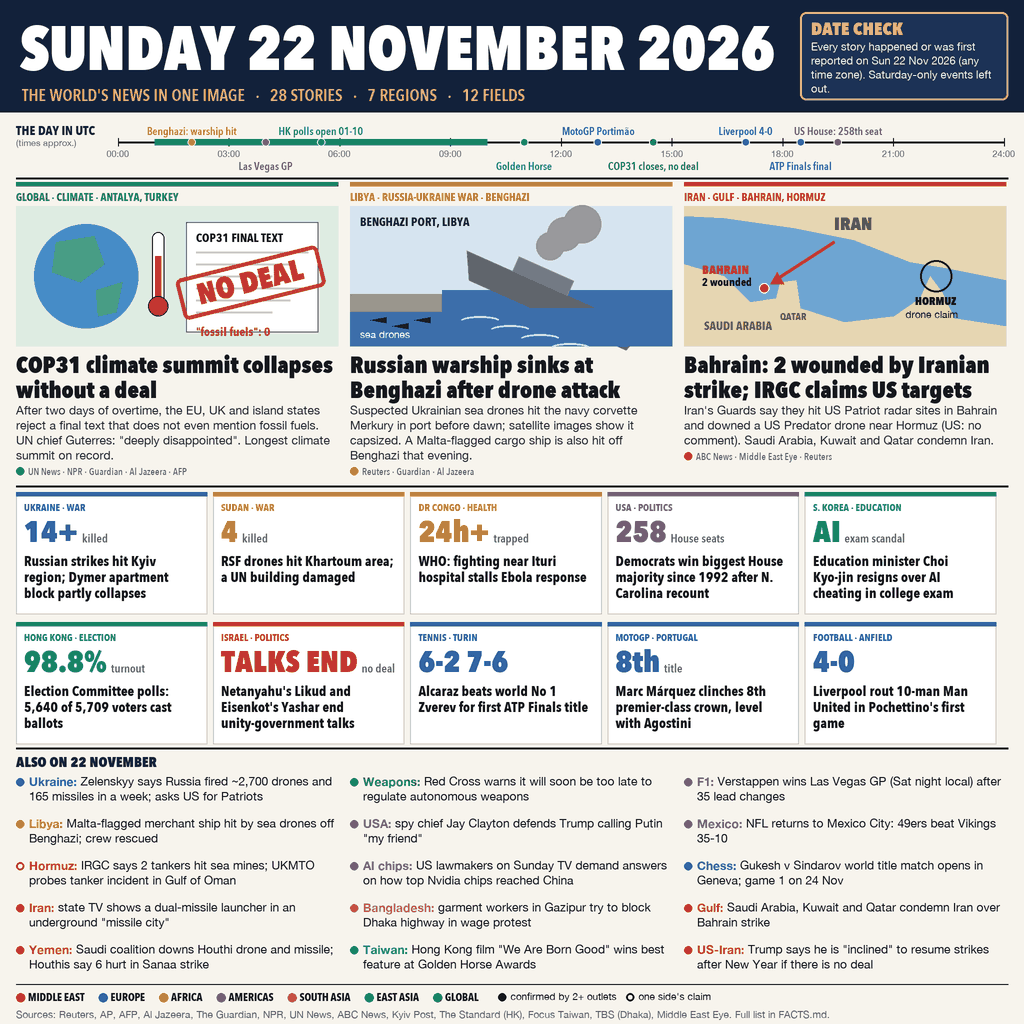
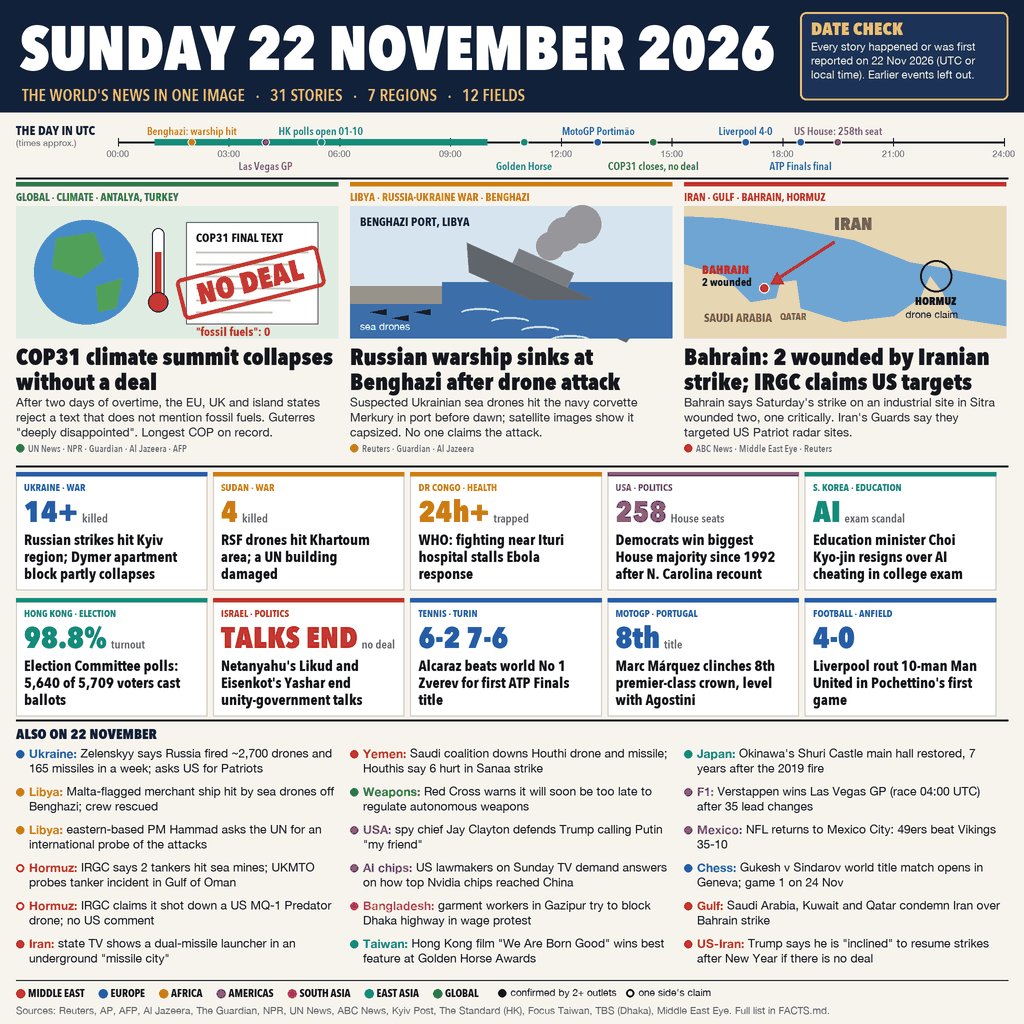
v2: 31 stories, larger card headlines, date check wording, de-duplicated Gulf items

Changed region(s): [[0.0, 0.125, 1.0, 1.0], [0.3438, 0.1562, 0.6562, 0.1875], [0.7812, 0.0312, 0.9688, 0.0938]]

diff --git a/render.py b/render.py
@@ -21,7 +21,7 @@ REGIONS = {  # region -> colour
     'MIDDLE EAST': (190, 52, 44),
     'EUROPE': (38, 92, 170),
     'AFRICA': (205, 125, 20),
-    'AMERICAS': (120, 58, 150),
+    'AMERICAS': (128, 48, 168),
     'SOUTH ASIA': (200, 70, 130),
     'EAST ASIA': (18, 140, 120),
     'GLOBAL': (40, 120, 60),
@@ -99,11 +99,11 @@ rect(0, 0, W, 112, fill=NAVY)
 DATE_SIZE = 62
 assert tw('SUNDAY 22 NOVEMBER 2026', 'heavy', DATE_SIZE) < 770
 text(20, 8, 'SUNDAY 22 NOVEMBER 2026', 'heavy', DATE_SIZE, (255, 255, 255))
-text(22, 84, "THE WORLD'S NEWS IN ONE IMAGE   ·   28 STORIES   ·   7 REGIONS   ·   12 FIELDS", 'demi', 17, GOLD)
+text(22, 84, "THE WORLD'S NEWS IN ONE IMAGE   ·   31 STORIES   ·   7 REGIONS   ·   12 FIELDS", 'demi', 17, GOLD)
 # date check box
 rect(800, 12, 1008, 100, fill=(28, 50, 86), outline=GOLD, width=2, r=6)
 text(811, 17, 'DATE CHECK', 'heavy', 18, GOLD)
-para(811, 40, 'Every story happened or was first reported on Sun 22 Nov 2026 (any time zone). Saturday-only events left out.',
+para(811, 40, 'Every story happened or was first reported on 22 Nov 2026 (UTC or local time). Earlier events left out.',
      'reg', 11, 190, 14, (235, 238, 245), 4)
 
 # ---------------------------------------------------------------- UTC timeline
@@ -150,18 +150,18 @@ LW = 322
 LEADS = [
     dict(region='GLOBAL', tag='GLOBAL · CLIMATE · ANTALYA, TURKEY', art='cop',
          head='COP31 climate summit collapses without a deal',
-         dek='After two days of overtime, the EU, UK and island states reject a final text that does not even mention '
-             'fossil fuels. UN chief Guterres: "deeply disappointed". Longest climate summit on record.',
+         dek='After two days of overtime, the EU, UK and island states reject a text that does not mention fossil '
+             'fuels. Guterres "deeply disappointed". Longest COP on record.',
          src='UN News · NPR · Guardian · Al Jazeera · AFP'),
     dict(region='AFRICA', tag='LIBYA · RUSSIA-UKRAINE WAR · BENGHAZI', art='ship',
          head='Russian warship sinks at Benghazi after drone attack',
-         dek='Suspected Ukrainian sea drones hit the navy corvette Merkury in port before dawn; satellite images show it '
-             'capsized. A Malta-flagged cargo ship is also hit off Benghazi that evening.',
+         dek='Suspected Ukrainian sea drones hit the navy corvette Merkury in port before dawn; satellite images '
+             'show it capsized. No one claims the attack.',
          src='Reuters · Guardian · Al Jazeera'),
     dict(region='MIDDLE EAST', tag='IRAN · GULF · BAHRAIN, HORMUZ', art='gulf',
          head='Bahrain: 2 wounded by Iranian strike; IRGC claims US targets',
-         dek='Iran\'s Guards say they hit US Patriot radar sites in Bahrain and downed a US Predator drone near Hormuz '
-             '(US: no comment). Saudi Arabia, Kuwait and Qatar condemn Iran.',
+         dek='Bahrain says Saturday\'s strike on an industrial site in Sitra wounded two, one critically. '
+             'Iran\'s Guards say they targeted US Patriot radar sites.',
          src='ABC News · Middle East Eye · Reuters'),
 ]
 
@@ -258,16 +258,16 @@ for i, L in enumerate(LEADS):
     c = REGIONS[L['region']]
     rect(x, LY, x + LW, LY + 4, fill=c)
     text(x, LY + 8, L['tag'], 'bold', 11, c)
-    ARTS[L['art']](x, LY + 24, LW, 140)
-    yy = para(x, LY + 168, L['head'], 'heavy', 23, LW, 25, INK, 2)
-    yy = para(x, yy + 3, L['dek'], 'reg', 12, LW, 15, (40, 42, 48), 4)
+    ARTS[L['art']](x, LY + 24, LW, 132)
+    yy = para(x, LY + 160, L['head'], 'heavy', 23, LW, 25, INK, 2)
+    yy = para(x, yy + 3, L['dek'], 'reg', 12, LW, 15, (40, 42, 48), 3)
     mark(x, yy + 4, True, c)
     text(x + 12, yy + 2, L['src'], 'med', 10, GREY)
 
 # ---------------------------------------------------------------- cards
-CY = 492
+CY = 472
 d.line(P(16, CY - 6, W - 16, CY - 6), fill=INK, width=2 * S)
-CW, CH, CG = 191.2, 122, 6
+CW, CH, CG = 191.2, 118, 6
 CARDS = [
     ('EUROPE', 'UKRAINE · WAR', '14+', 'killed', 'Russian strikes hit Kyiv region; Dymer apartment block partly collapses', True),
     ('AFRICA', 'SUDAN · WAR', '4', 'killed', 'RSF drones hit Khartoum area; a UN building damaged', True),
@@ -292,16 +292,18 @@ for k, (reg, tag, fig, unit, head, sure) in enumerate(CARDS):
     text(x + 8, y + 20, fig, 'heavy', fsize, c)
     if unit:
         text(x + 12 + tw(fig, 'heavy', fsize), y + 20 + fsize * 0.62, unit, 'demi', 12, GREY)
-    para(x + 8, y + 60, head, 'bold', 14, CW - 16, 16, INK, 3)
+    para(x + 8, y + 58, head, 'bold', 15, CW - 16, 17, INK, 3)
 
 # ---------------------------------------------------------------- briefs
-BY = 752
+BY = 724
 d.line(P(16, BY - 4, W - 16, BY - 4), fill=INK, width=2 * S)
 text(16, BY + 1, 'ALSO ON 22 NOVEMBER', 'heavy', 14, NAVY)
 BRIEFS = [
     ('EUROPE', 'Ukraine:', 'Zelenskyy says Russia fired ~2,700 drones and 165 missiles in a week; asks US for Patriots', True),
     ('AFRICA', 'Libya:', 'Malta-flagged merchant ship hit by sea drones off Benghazi; crew rescued', True),
+    ('AFRICA', 'Libya:', 'eastern-based PM Hammad asks the UN for an international probe of the attacks', True),
     ('MIDDLE EAST', 'Hormuz:', 'IRGC says 2 tankers hit sea mines; UKMTO probes tanker incident in Gulf of Oman', False),
+    ('MIDDLE EAST', 'Hormuz:', 'IRGC claims it shot down a US MQ-1 Predator drone; no US comment', False),
     ('MIDDLE EAST', 'Iran:', 'state TV shows a dual-missile launcher in an underground "missile city"', True),
     ('MIDDLE EAST', 'Yemen:', 'Saudi coalition downs Houthi drone and missile; Houthis say 6 hurt in Sanaa strike', True),
     ('GLOBAL', 'Weapons:', 'Red Cross warns it will soon be too late to regulate autonomous weapons', True),
@@ -309,7 +311,8 @@ BRIEFS = [
     ('AMERICAS', 'AI chips:', 'US lawmakers on Sunday TV demand answers on how top Nvidia chips reached China', True),
     ('SOUTH ASIA', 'Bangladesh:', 'garment workers in Gazipur try to block Dhaka highway in wage protest', True),
     ('EAST ASIA', 'Taiwan:', 'Hong Kong film "We Are Born Good" wins best feature at Golden Horse Awards', True),
-    ('AMERICAS', 'F1:', 'Verstappen wins Las Vegas GP (Sat night local) after 35 lead changes', True),
+    ('EAST ASIA', 'Japan:', "Okinawa's Shuri Castle main hall restored, 7 years after the 2019 fire", True),
+    ('AMERICAS', 'F1:', 'Verstappen wins Las Vegas GP (race 04:00 UTC) after 35 lead changes', True),
     ('AMERICAS', 'Mexico:', 'NFL returns to Mexico City: 49ers beat Vikings 35-10', True),
     ('EUROPE', 'Chess:', 'Gukesh v Sindarov world title match opens in Geneva; game 1 on 24 Nov', True),
     ('MIDDLE EAST', 'Gulf:', 'Saudi Arabia, Kuwait and Qatar condemn Iran over Bahrain strike', True),
@@ -317,9 +320,9 @@ BRIEFS = [
 ]
 BW = 322
 for k, (reg, lead, body, sure) in enumerate(BRIEFS):
-    col, row = k // 5, k % 5
+    col, row = k // 6, k % 6
     x = 16 + col * (BW + 12)
-    y = BY + 22 + row * 42
+    y = BY + 22 + row * 38
     c = REGIONS[reg]
     mark(x, y + 4, sure, c)
     lead_w = tw(lead + ' ', 'hbold', 12)
@@ -331,7 +334,8 @@ for k, (reg, lead, body, sure) in enumerate(BRIEFS):
         para(x + 13, y + 15, rest, 'reg', 12, BW - 14, 15, INK, 1)
 
 # ---------------------------------------------------------------- footer
-FY = 984
+assert len(LEADS) + len(CARDS) + len(BRIEFS) == 31 and len(BRIEFS) == 18
+FY = 980
 d.line(P(16, FY, W - 16, FY), fill=INK, width=S)
 x = 16
 for reg, c in REGIONS.items():
@@ -347,6 +351,6 @@ text(16, FY + 24, 'Sources: Reuters, AP, AFP, Al Jazeera, The Guardian, NPR, UN 
      'Focus Taiwan, TBS (Dhaka), Middle East Eye. Full list in FACTS.md.', 'reg', 10, GREY)
 
 out = img.resize((W, H), Image.LANCZOS)
-out = out.quantize(colors=128, method=Image.MEDIANCUT, dither=Image.NONE)
+out = out.quantize(colors=224, method=Image.MEDIANCUT, dither=Image.NONE)
 out.save('entry.png', optimize=True)
 print('wrote entry.png')

diff --git a/FACTS.md b/FACTS.md
@@ -53,6 +53,12 @@ Peru quake (21), Wall Street correction (Fri 20).
 26. Chess: Gukesh v Sindarov world title match opens in Geneva (ceremony 22 Nov, game 1 on 24 Nov). C — Al Jazeera · FIDE
 27. Gulf: Saudi Arabia, Kuwait and Qatar condemn Iran's attack on Bahrain (statements Sunday). C — ABC News · Wikipedia/MEE
 28. US–Iran: Trump tells Fox he is "inclined" to resume strikes after New Year if no deal. C — Anadolu · The Hill · Fox News · Bloomberg
+29. Libya: eastern-based PM Osama Hammad (Sunday) asks UN General Assembly and Security Council for an international probe. C — Al Jazeera · Guardian
+30. Hormuz: IRGC claims it shot down a US MQ-1 Predator east of the strait; CENTCOM did not comment. CLAIM — ABC News (IRNA) · Reuters via syndication
+31. Japan: main hall of Okinawa's Shuri Castle restored seven years after the 2019 fire; completion ceremony 22 Nov, public opening 23 Nov.
+    C — nippon.com/Jiji 22 Nov · The Standard (HK) · nippon.com June schedule
+
+The UN Libya mission's call for an independent investigation was posted early Monday 23 Nov, so it is not on the image.
 
 Dropped after checking: West Bank settler arson (Saturday night), Seattle airport ICE arrests (Saturday), Microsoft outage
 warning and COP32 hand-over (no second source).

diff --git a/README.md b/README.md
@@ -4,9 +4,10 @@
 [![rank](https://make.fun/badge/news-image-20261122/GAD2412/world-news-2026-11-22/rank.svg)](https://make.fun/bounty/news-image-20261122/leaderboard?utm_source=github&utm_medium=readme&utm_campaign=news-image-20261122)
 [![reward](https://make.fun/badge/news-image-20261122/GAD2412/world-news-2026-11-22/reward.svg)](https://make.fun/bounty/news-image-20261122?utm_source=github&utm_medium=readme&utm_campaign=news-image-20261122)
 
-One 1024x1024 front page of the world's news on Sunday 22 November 2026: 28 dated stories from 7 regions, three
+One 1024x1024 front page of the world's news on Sunday 22 November 2026: 31 dated stories from 7 regions, three
 illustrated leads (COP31 collapses without a deal, a Russian warship sunk at Benghazi, Iran's strike on Bahrain),
-ten figure cards, fifteen one-line briefs, an approximate UTC timeline and a date check. Every story is listed with
+ten figure cards, eighteen one-line briefs (claims by one side marked with a ring), an approximate UTC timeline
+and a date check. Every story is listed with
 its sources in [FACTS.md](FACTS.md); stories that happened on 20 or 21 November were left out.
 
 ![entry](entry.png)
